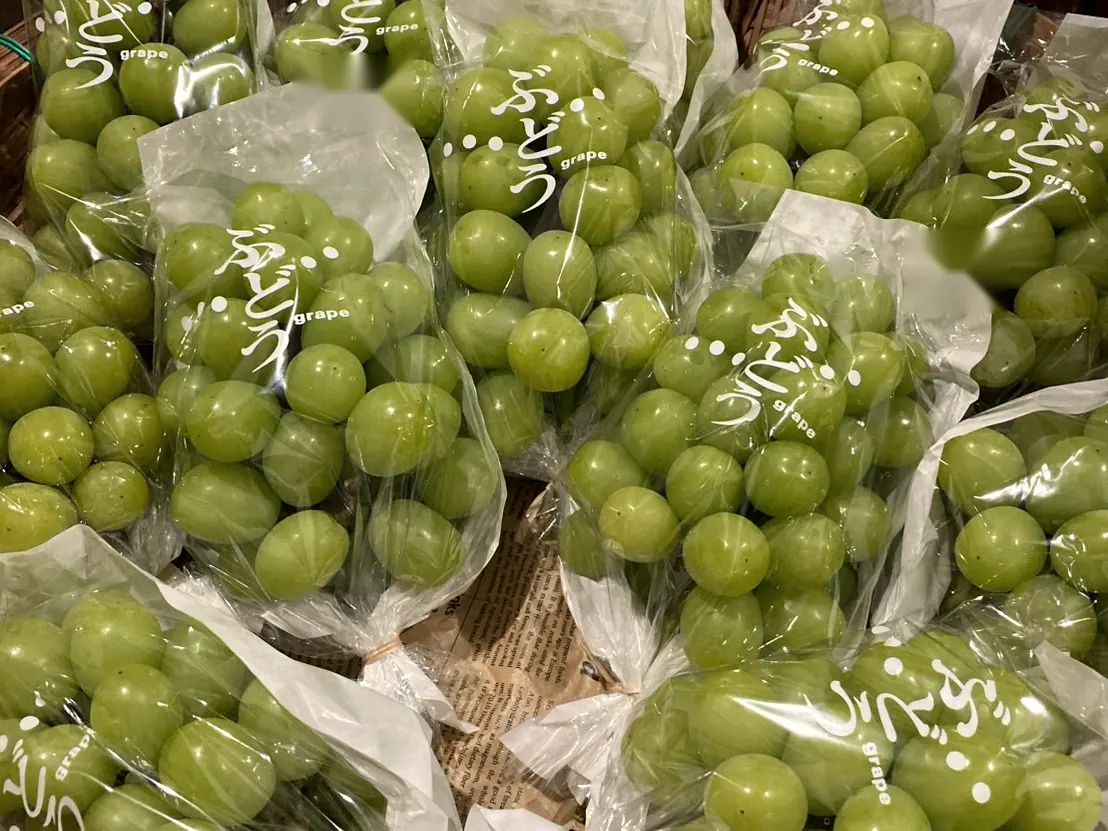
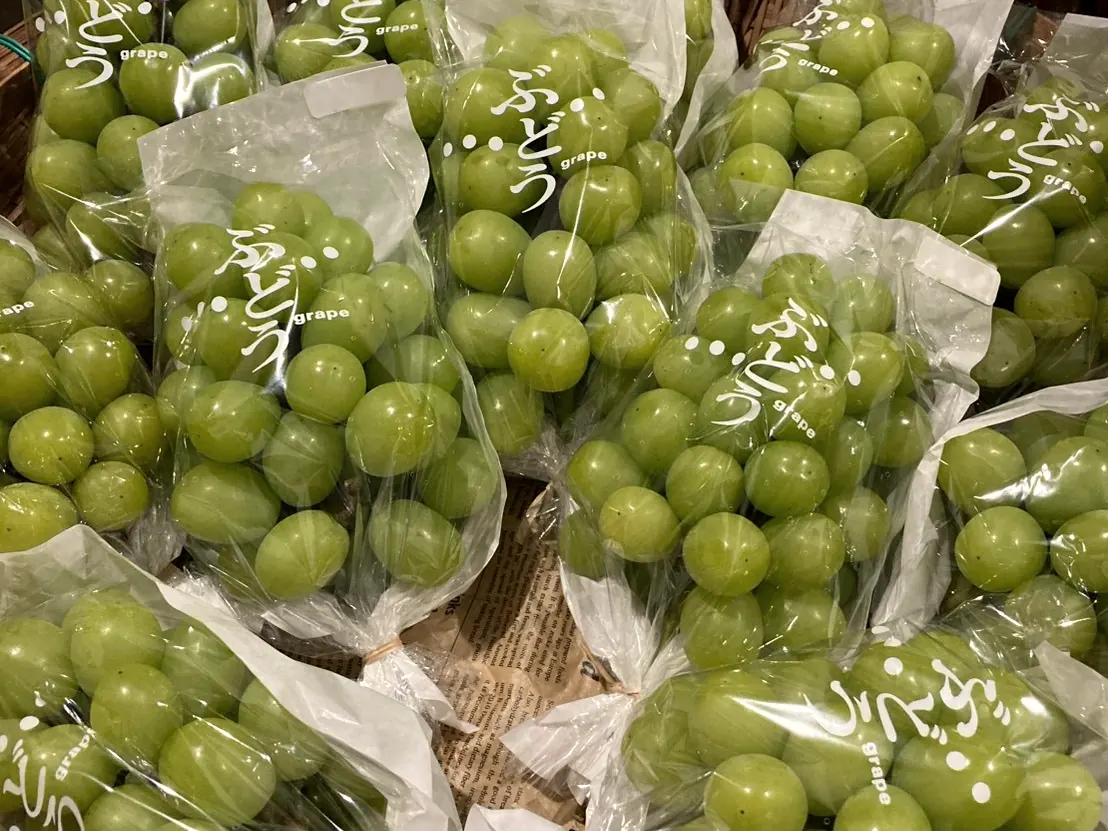
v5: 本人の頼みで直した版に差し替える（スライドの1枚目と2枚目の入れ替え・3枚を外す・流れる向き・値札は字だけ消す・トップの不定期の文を外す）

Changed region(s): [[0.8285, 0.2708, 0.9206, 0.3911], [0.2455, 0.0602, 0.3682, 0.1504]]

diff --git a/v5/index.html b/v5/index.html
@@ -11,8 +11,8 @@
   <link rel="preconnect" href="https://fonts.googleapis.com">
   <link rel="preconnect" href="https://fonts.gstatic.com" crossorigin>
   <link href="https://fonts.googleapis.com/css2?family=Cormorant+Garamond:wght@400;500&amp;family=Shippori+Mincho:wght@400;500;600&amp;display=swap" rel="stylesheet">
-  <link rel="stylesheet" href="style.css?v=20261115c">
-  <script src="script.js?v=20261115c" defer></script>
+  <link rel="stylesheet" href="style.css?v=20261115d">
+  <script src="script.js?v=20261115d" defer></script>
 </head>
 <body>
   <header class="site-header">
@@ -38,19 +38,16 @@
   <main>
     <section id="top" class="hero" aria-labelledby="hero-title">
       <div class="hero__slides" role="region" aria-roledescription="carousel" aria-label="お店の写真（自動で切り替わります）">
-        <figure class="hero__slide is-active" data-slide="loaves"><picture><source media="(min-width: 900px)" srcset="assets/loaves-pc.webp" width="1004" height="868"><img src="assets/loaves.webp" width="1280" height="813" alt="スノコの上に並ぶ食パン" loading="eager" fetchpriority="high"></picture></figure>
-        <figure class="hero__slide" data-slide="shelf"><img src="assets/shelf.webp" width="1280" height="960" alt="木の棚に並ぶ食パンと赤いオーブン" loading="lazy"></figure>
+        <figure class="hero__slide is-active" data-slide="shelf"><img src="assets/shelf.webp" width="1280" height="960" alt="木の棚に並ぶ食パンと赤いオーブン" loading="eager" fetchpriority="high"></figure>
+        <figure class="hero__slide" data-slide="loaves"><picture><source media="(min-width: 900px)" srcset="assets/loaves-pc.webp" width="1004" height="868"><img src="assets/loaves.webp" width="1280" height="813" alt="スノコの上に並ぶ食パン" loading="lazy"></picture></figure>
         <figure class="hero__slide" data-slide="breakfast-set"><img src="assets/breakfast-set.webp" width="1280" height="960" alt="ジャムをのせたトーストのある朝の食卓" loading="lazy"></figure>
         <figure class="hero__slide" data-slide="board-jam"><img src="assets/board-jam.webp" width="912" height="672" alt="木のボードにのせた食パンと、ジャムの瓶" loading="lazy"></figure>
         <figure class="hero__slide hero__slide--logo" data-slide="logo"><img src="assets/logo-alpha.webp" width="320" height="320" alt="&amp;.&amp; のロゴ" loading="lazy"></figure>
         <figure class="hero__slide" data-slide="exterior"><img src="assets/exterior.webp" width="1280" height="960" alt="木目の壁の店の入口とロゴの看板" loading="lazy"></figure>
         <figure class="hero__slide" data-slide="jam-stack"><img src="assets/jam-stack.webp" width="1280" height="960" alt="店頭に積まれた自家製ジャムの瓶" loading="lazy"></figure>
-        <figure class="hero__slide" data-slide="shelf-fruit"><img src="assets/shelf-fruit.webp" width="1280" height="960" alt="棚に並ぶシャインマスカットとパン" loading="lazy"></figure>
         <figure class="hero__slide" data-slide="sweets-2"><img src="assets/sweets-2.webp" width="1280" height="960" alt="袋に入って並ぶ菓子パン" loading="lazy"></figure>
         <figure class="hero__slide" data-slide="sign-night"><img src="assets/sign-night.webp" width="1000" height="750" alt="夜に照らされたロゴの看板" loading="lazy"></figure>
         <figure class="hero__slide" data-slide="framed"><img src="assets/framed.webp" width="1280" height="960" alt="壁に飾った食パンの写真" loading="lazy"></figure>
-        <figure class="hero__slide" data-slide="grapes"><img src="assets/grapes.webp" width="1280" height="960" alt="我が家で育てたシャインマスカット" loading="lazy"></figure>
-        <figure class="hero__slide" data-slide="jam-jar"><img src="assets/jam-jar.webp" width="1000" height="750" alt="&amp;.&amp; のジャムの瓶" loading="lazy"></figure>
         <div class="hero__controls" hidden>
           <div class="hero__progress" aria-hidden="true"><span></span></div>
         </div>
@@ -67,7 +64,6 @@
             <div><dt>営業日</dt><dd>木・金・土・日</dd></div>
             <div><dt>営業時間</dt><dd><span class="phrase">11:00〜15:00</span><span class="phrase">（売り切れ次第終了）</span></dd></div>
           </dl>
-          <p class="hero__closed note"><span class="phrase">個人で</span><span class="phrase">営んでいるため、</span><span class="phrase">不定期に</span><span class="phrase">お休みを</span><span class="phrase">いただくことが</span><span class="phrase">あります。</span></p>
           <a class="button hero__button" href="tel:0986510511">電話で予約する<span class="arrow" aria-hidden="true"></span></a>
         </div>
       </div>
@@ -218,7 +214,7 @@
             </dl>
             <div class="info__closed">
               <p class="info__closed-title">お休みについて</p>
-              <p><span class="phrase">木・金・土・日の</span><span class="phrase">営業日でも、</span><span class="phrase">不定期に</span><span class="phrase">お休みを</span><span class="phrase">いただくことが</span><span class="phrase">あります。</span></p>
+              <p><span class="phrase">&amp;.&amp; は</span><span class="phrase">個人で</span><span class="phrase">営んでいるため、</span><span class="phrase">木・金・土・日の</span><span class="phrase">営業日でも、</span><span class="phrase">不定期に</span><span class="phrase">お休みを</span><span class="phrase">いただくことが</span><span class="phrase">あります。</span></p>
               <p><span class="phrase">お越しの前に、</span><span class="phrase">お電話で</span><span class="phrase">お確かめください。</span></p>
             </div>
           </div>

diff --git a/v5/style.css b/v5/style.css
@@ -154,7 +154,6 @@ h3 { font-size: 21px; font-weight: 500; line-height: 1.7; letter-spacing: .12em;
 .hero__hours { border-top: 1px solid var(--ink); }
 .hero__hours > div { display: grid; grid-template-columns: 5.5em 1fr; gap: 12px; padding: 12px 0; border-bottom: 1px solid var(--line); line-height: 1.8; }
 .hero__hours dt { color: var(--ink-soft); }
-.hero__closed { margin-top: 12px; }
 .hero__button { display: none; }
 @media (min-width: 900px) {
   /* 最初の画面は画面の高さ（上の帯と線の分を引く）。右の文が長い時だけ伸びる */
@@ -259,10 +258,12 @@ h3 { font-size: 21px; font-weight: 500; line-height: 1.7; letter-spacing: .12em;
 .marquee.is-running .marquee__track { gap: 0; padding-inline: 0; animation: ig-flow 70s linear infinite; }
 .marquee.is-running .marquee__track > li { padding-right: 12px; }
 .marquee:hover .marquee__track, .marquee:focus-within .marquee__track { animation-play-state: paused; }
-/* ジャムの写真の列：縦長の札で、Instagramとは逆向きにゆっくり流す */
+/* ジャムの写真の列：縦長の札で、左へゆっくり流す（Instagramは右へ） */
 .jam-marquee { margin-top: 56px; }
 .jam-marquee .marquee__track img { width: clamp(140px, 34vw, 240px); aspect-ratio: 3 / 4; }
-.jam-marquee.is-running .marquee__track { animation-duration: 80s; animation-direction: reverse; }
+.jam-marquee.is-running .marquee__track { animation-duration: 80s; }
+/* Instagram は右へ流す（ジャムは左へ。2026-11-15 本人） */
+.ig-marquee.is-running .marquee__track { animation-direction: reverse; }
 @media (min-width: 900px) { .jam-marquee { margin-top: 96px; } }
 @keyframes ig-flow { from { transform: translateX(0); } to { transform: translateX(-50%); } }
 @media (prefers-reduced-motion: reduce) {
